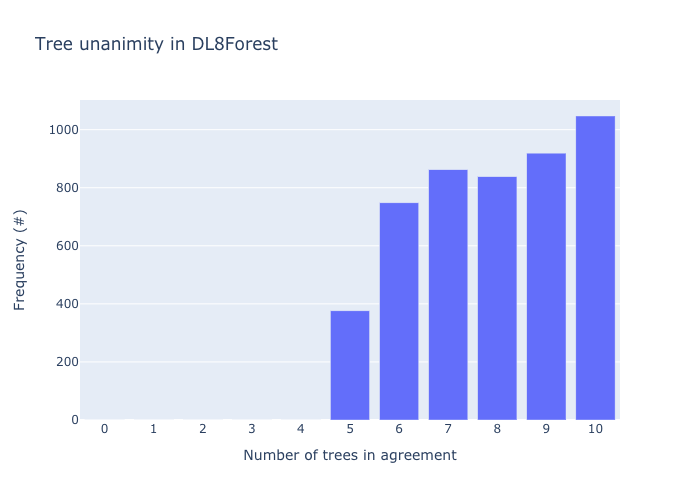
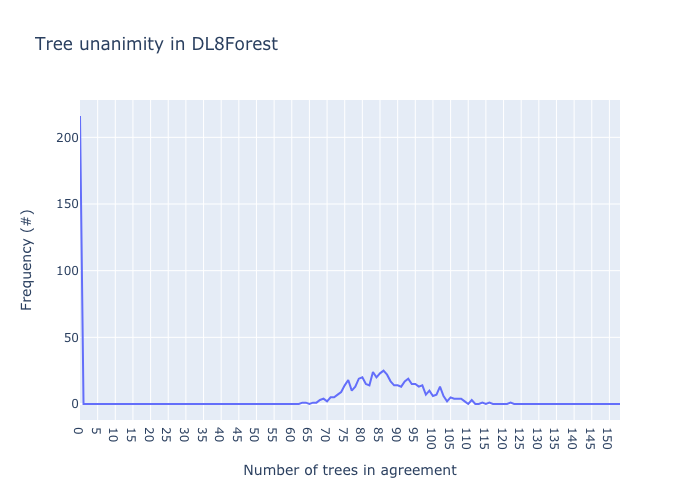
graph fixes

Changed region(s): [[0.09, 0.21, 0.9, 0.96], [0.0, 0.36, 0.12, 0.75], [0.06, 0.24, 0.12, 0.3]]

diff --git a/source/graphing/grapher.py b/source/graphing/grapher.py
@@ -1,5 +1,6 @@
 import plotly.graph_objects as go
 from source.utils import learning_manager, file_manager
+import numpy as np
 
 
 def plot(algos):
@@ -47,81 +48,108 @@ def plot(algos):
     g_time.write_image("plots/time.png")
 
     # Make the DL8-forest specific graphs
-    if "DL8-forest" in algos:
-        discriminant = learning_manager.discriminants["DL8-forest"]
-        for file in discriminant:
-            # Start with the attribute spread graph
-            layout = go.Layout(title='Frequency of attributes by depth',
-                               xaxis=dict(type='category', title='Attribute number (sorted by total %'),
-                               yaxis=dict(title='Frequency (%)'))
-            g_spread = go.Figure(layout=layout)
+    for algo in algos:
+        if algo == "DL8-forest" or algo == "OptDL8-forest":
+            discriminant = learning_manager.discriminants[algo]
+            for file in discriminant:
+                # Start with the attribute spread graph
+                layout = go.Layout(title='Frequency of attributes by depth',
+                                   xaxis=dict(type='category', title='Attribute number (sorted by total %'),
+                                   yaxis=dict(title='Frequency (%)'))
+                g_spread = go.Figure(layout=layout)
 
-            # Get the data
-            data = discriminant[file]
-            depth_map = {}
-            total = {}
+                # Get the data
+                data = discriminant[file]
+                depth_map = {}
+                total = {}
 
-            total_count = 0
-            depth_count = {}
+                total_count = 0
+                depth_count = {}
 
-            # Flatten the depth_map of each iteration over the file (such that depth_map[d] contains all attributes of
-            # all trees at depth d)
-            for i in data.depth_map:
-                d = data.depth_map[i]
-                for depth in d:
-                    attrs = d[depth]
-                    if depth not in depth_count:
-                        depth_count[depth] = 0
+                # Flatten the depth_map of each iteration over the file (such that depth_map[d] contains all attributes of
+                # all trees at depth d)
+                for i in data.depth_map:
+                    d = data.depth_map[i]
+                    for depth in d:
+                        attrs = d[depth]
+                        if depth not in depth_count:
+                            depth_count[depth] = 0
 
-                    for attr in attrs:
-                        depth_count[depth] += attrs[attr]
-                        total_count += attrs[attr]
+                        for attr in attrs:
+                            depth_count[depth] += attrs[attr]
+                            total_count += attrs[attr]
 
-            # Transform the depth_map counts into ratios and keep track of the total ratio of each attribute
-            for i in data.depth_map:
-                d = data.depth_map[i]
-                for depth in d:
-                    attrs = d[depth]
-                    if depth not in depth_map:
-                        depth_map[depth] = {}
+                # Transform the depth_map counts into ratios and keep track of the total ratio of each attribute
+                for i in data.depth_map:
+                    d = data.depth_map[i]
+                    for depth in d:
+                        attrs = d[depth]
+                        if depth not in depth_map:
+                            depth_map[depth] = {}
 
-                    for attr in attrs:
-                        if attr not in depth_map[depth]:
-                            depth_map[depth][attr] = 100 * attrs[attr] / depth_count[depth]
-                        else:
-                            depth_map[depth][attr] += 100 * attrs[attr] / depth_count[depth]
-                        if attr not in total:
-                            total[attr] = 100 * attrs[attr] / total_count
-                        else:
-                            total[attr] += 100 * attrs[attr] / total_count
+                        for attr in attrs:
+                            if attr not in depth_map[depth]:
+                                depth_map[depth][attr] = 100 * attrs[attr] / depth_count[depth]
+                            else:
+                                depth_map[depth][attr] += 100 * attrs[attr] / depth_count[depth]
+                            if attr not in total:
+                                total[attr] = 100 * attrs[attr] / total_count
+                            else:
+                                total[attr] += 100 * attrs[attr] / total_count
 
-            # Add a trace for each depth, making sure it's sorted by total attribute ratio
-            for depth in depth_map:
-                keys = [k for k, v in sorted(total.items(), key=lambda item: -item[1])]
-                values = [depth_map[depth][k] if k in depth_map[depth] else 0 for k in keys]
-                g_spread.add_trace(go.Bar(x=keys, y=values, name="Depth " + str(depth)))
+                # Add a trace for each depth, making sure it's sorted by total attribute ratio
+                for depth in depth_map:
+                    keys = [k for k, v in sorted(total.items(), key=lambda item: -item[1])]
+                    values = [depth_map[depth][k] if k in depth_map[depth] else 0 for k in keys]
+                    g_spread.add_trace(go.Bar(x=keys, y=values, name="Depth " + str(depth)))
 
-            g_spread.write_image("plots/spread/spread_" + file.split("/")[-1].split(".")[0] + ".png")
+                g_spread.write_image("plots/spread/spread_" + file.split("/")[-1].split(".")[0] + ".png")
 
-            # unanimity
+        if algo == "DL8-forest":
+            discriminant = learning_manager.discriminants[algo]
+            for file in discriminant:
+                data = discriminant[file]
 
-            # Get the unanimity for the file
-            unanimity = data.unanimity
-            n_estimators = data.n_estimators
+                # Get the unanimity for the file
+                unanimity = data.unanimity
+                n_estimators = data.n_estimators
 
-            # Transform the list of unanimity ratios into a count of unanimity
-            unan = [0] * (n_estimators[0] + 1)
-            for row in unanimity:
-                for col in row:
-                    unan[col] += 1
+                # Transform the list of unanimity ratios into a count of unanimity
+                unan = [0] * (n_estimators[0] + 1)
+                for row in unanimity:
+                    for col in row:
+                        unan[col] += 1
 
-            # Add unanimity to graph
-            layout = go.Layout(title='Tree unanimity in DL8Forest',
-                               xaxis=dict(type='category', title='Number of trees in agreement'),
-                               yaxis=dict(title='Frequency (#)'))
-            g_unan = go.Figure(layout=layout)
-            g_unan.add_trace(go.Bar(x=list(range(n_estimators[0] + 1)), y=unan))
-            g_unan.write_image("plots/unan/unan_" + file.split("/")[-1].split(".")[0] + ".png")
+                # Add unanimity to graph
+                layout = go.Layout(title='Tree unanimity in DL8Forest',
+                                   xaxis=dict(type='category', title='Number of trees in agreement'),
+                                   yaxis=dict(title='Frequency (#)'))
+                g_unan = go.Figure(layout=layout)
+                g_unan.add_trace(go.Scatter(x=list(range(n_estimators[0] + 1)), y=unan))
+                g_unan.write_image("plots/unan/unan_" + file.split("/")[-1].split(".")[0] + ".png")
+
+        if algo == "OptDL8-forest":
+            discriminant = learning_manager.discriminants[algo]
+            for file in discriminant:
+                data = discriminant[file]
+                ns = list(range(1, max(data.n_estimators) + 1))
+                acc = []
+
+                for n in ns:
+                    accs = data.check_acc_with_n_trees(n)
+                    acc.append(accs)
+
+                layout = go.Layout(title='Forest accuracy with n trees',
+                                   xaxis=dict(rangemode="tozero", title='Number of trees used'),
+                                   yaxis=dict(rangemode="tozero", title='Prediction accuracy'))
+                g_f_acc = go.Figure(layout=layout)
+                acc = np.array(acc)
+
+                for i in range(acc.shape[1]):
+                    n_estimators = data.n_estimators[i]
+                    g_f_acc.add_trace(go.Scatter(x=ns[:n_estimators], y=acc[:n_estimators, i], mode='lines',
+                                                 name="Forest #" + str(i)))
+                g_f_acc.write_image("plots/acc/acc_" + file.split("/")[-1].split(".")[0] + ".png")
 
 
 def plot_all():

diff --git a/source/utils/forest_core.py b/source/utils/forest_core.py
@@ -30,12 +30,17 @@ class Forest(BaseEstimator, ClassifierMixin):
         self.weights = []
         self.all_weights = []
         self.optimised = optimised
+        self.train_X = None
+        self.train_y = None
 
     def fit(self, X, y):
         check_X_y(X, y)
         orig_X = np.array(X)
         self.estimators = []
         self.weights = []
+
+        self.train_X = X
+        self.train_y = y
 
         # Used for random sample sampling
         sample_size = round(self.n_samples / 100 * len(X)) if self.sampling_type == "%" else self.n_samples
@@ -152,6 +157,8 @@ class Forest(BaseEstimator, ClassifierMixin):
                         if w != 0:
                             self.weights.append(w)
                             self.estimators.append(e)
+
+                    self.n_estimators = len(self.estimators)
                     cont = False
 
         self.is_fitted = True
@@ -171,6 +178,25 @@ class Forest(BaseEstimator, ClassifierMixin):
             pred = [np.argmax(np.bincount(lst[:, i])) for i in range(len(lst[0]))]
             self.unanimity = [np.count_nonzero(lst[:, i] == pred[i]) for i in range(len(lst[0]))]
             return pred
+
+    def predict_first_n_trees(self, X, n):
+        # Run a (weighted) prediction on all trees
+        if n >= len(self.all_estimators):
+            return self.predict(X)
+
+        estimators = self.all_estimators[:n]
+        pred = np.array([t.predict(self.train_X) for t in estimators]) * 2 - 1
+        c = np.array(self.train_y) * 2 - 1
+
+        weights, _ = calculate_tree_weights(pred, c)
+
+        lst = np.array([t.predict(X) for t in estimators])
+        lst = lst * 2 - 1
+        wlst = [weights[t] * lst[t, :] for t in range(len(estimators))]
+        pred = np.sum(wlst, axis=0)
+        pred = [0 if p < 0 else 1 for p in pred]
+        self.unanimity = [np.count_nonzero(lst[:, i] == pred[i]) for i in range(len(lst[0]))]
+        return pred
 
     def check_is_fitted(self):
         return self.is_fitted

diff --git a/source/utils/learning_manager.py b/source/utils/learning_manager.py
@@ -30,19 +30,23 @@ def build_algorithms(algos, b=False, percent=0.5):
         discriminants[algo] = {}
 
     for data_set in file_manager.data_sets.values():
+        for algo in algos:
+            d = algo_names[algo](data_set, b=b, percent=percent, **(kwargs[algo]))
+            discriminants[algo][data_set.file] = d
+            if not b:
+                d.read_from_file()
         print(data_set.file)
         for i in range(10):
             data_set.split(percent)
             for algo in algos:
-                d = algo_names[algo](data_set, b=b, percent=percent, **(kwargs[algo]))
-                discriminants[algo][data_set.file] = d
-                if not b:
-                    d.read_from_file()
+                d = discriminants[algo][data_set.file]
                 if not d.done:
                     print("Pass #" + str(i + 1) + " on " + d.NAME)
                     d.build()
                     d.run()
-                d.write_to_file()
+        for algo in algos:
+            d = discriminants[algo][data_set.file]
+            d.write_to_file()
 
 
 def build_all(b=False, percent=0.5):

diff --git a/source/learning/optimised_dl8_forest.py b/source/learning/optimised_dl8_forest.py
@@ -35,7 +35,7 @@ class OptDL8Forest(learning.Learning):
         f = self.t[self.n_builds - 1]
         self.predict = np.array(f.predict(self.data_set.test))
         d = np.array(self.data_set.test_classes)
-        acc = (d == self.predict).sum()
+        acc = (d == self.predict).sum() / len(d)
         self.avg_acc = (self.avg_acc * self.n_runs + acc) / (self.n_runs + 1)
         self.n_runs += 1
         self.unanimity.append(f.get_unanimity())
